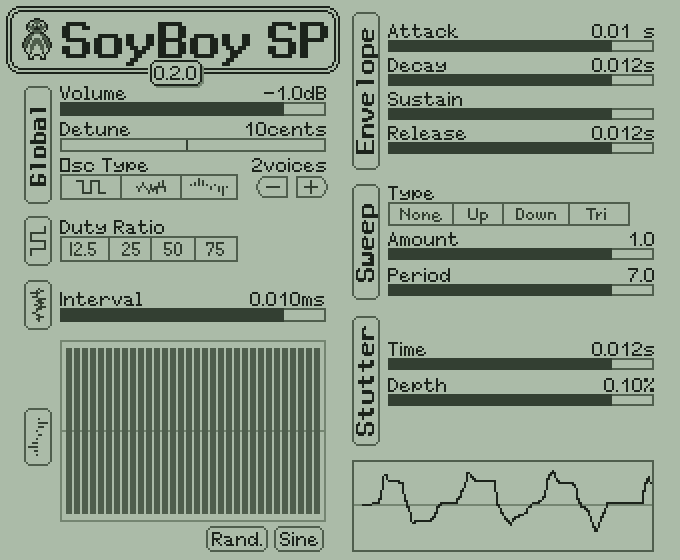
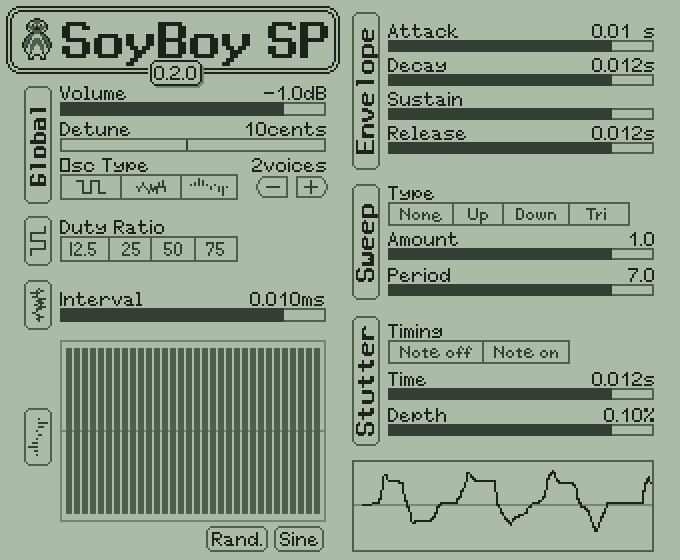
Add GUI parts to control the parameter "Stutter timing"

Changed region(s): [[0.5559, 0.5768, 0.9574, 0.7893]]

diff --git a/src/gui/ui.rs b/src/gui/ui.rs
@@ -41,6 +41,7 @@ pub struct UI {
     pub param_osc_type: ParameterSelector,
     pub param_osc_sq_duty: ParameterSelector,
     pub param_sweep_type: ParameterSelector,
+    pub param_stutter_timing: ParameterSelector,
     pub param_voices: ParameterVoices,
     pub param_wavetable: WaveTableEditor,
 }
@@ -334,6 +335,23 @@ impl UI {
                 186.0,
                 event_handler.clone(),
             ),
+            param_stutter_timing: ParameterSelector::new(
+                SelectorValue {
+                    param: SoyBoyParameter::StutterWhen,
+                    param_def: param_defs
+                        .get(&SoyBoyParameter::StutterWhen)
+                        .unwrap()
+                        .clone(),
+                    value: *param_values
+                        .get(&(SoyBoyParameter::StutterWhen as u32))
+                        .unwrap(),
+                },
+                Image::new(egui_ctx, &images.select_stutter_timing),
+                Image::new(egui_ctx, &images.param_atlas),
+                388.0,
+                324.0,
+                event_handler.clone(),
+            ),
             param_voices: ParameterVoices::new(
                 *param_values
                     .get(&(SoyBoyParameter::NumVoices as u32))
@@ -368,7 +386,7 @@ impl UI {
             SoyBoyParameter::SweepPeriod => self.param_period.set(value),
             SoyBoyParameter::StutterTime => self.param_time.set(value),
             SoyBoyParameter::StutterDepth => self.param_depth.set(value),
-            SoyBoyParameter::StutterWhen => (), //self.param_when.set(value),
+            SoyBoyParameter::StutterWhen => self.param_stutter_timing.set(value),
             SoyBoyParameter::EgAttack => self.param_attack.set(value),
             SoyBoyParameter::EgDecay => self.param_decay.set(value),
             SoyBoyParameter::EgSustain => self.param_sustain.set(value),

diff --git a/src/gui/images.rs b/src/gui/images.rs
@@ -21,6 +21,8 @@ const IMG_PARAM_ATLAS: &[u8] = include_bytes!("../../resources/paramname.png");
 const IMG_SELECT_OSC_TYPE: &[u8] = include_bytes!("../../resources/select-osc-type.png");
 const IMG_SELECT_OSC_SQ_DUTY: &[u8] = include_bytes!("../../resources/select-osc-square-duty.png");
 const IMG_SELECT_SWEEP_TYPE: &[u8] = include_bytes!("../../resources/select-sweep-type.png");
+const IMG_SELECT_STUTTER_TIMING: &[u8] =
+    include_bytes!("../../resources/select-stutter-timing.png");
 const IMG_WAVETABLE_BORDER: &[u8] = include_bytes!("../../resources/wavetable-border.png");
 const IMG_OSCILLOSCOPE_BORDER: &[u8] = include_bytes!("../../resources/oscilloscope-border.png");
 
@@ -58,6 +60,7 @@ pub struct Images {
     pub select_osc_type: RetainedImage,
     pub select_osc_sq_duty: RetainedImage,
     pub select_sweep_type: RetainedImage,
+    pub select_stutter_timing: RetainedImage,
     pub wavetable_border: RetainedImage,
     pub oscilloscope_border: RetainedImage,
     pub value_atlas: RetainedImage,
@@ -126,6 +129,11 @@ impl Images {
             select_sweep_type: RetainedImage::from_image_bytes(
                 "soyboy:select:sweep-type",
                 IMG_SELECT_SWEEP_TYPE,
+            )
+            .unwrap(),
+            select_stutter_timing: RetainedImage::from_image_bytes(
+                "soyboy:select:stutter-timing",
+                IMG_SELECT_STUTTER_TIMING,
             )
             .unwrap(),
             wavetable_border: RetainedImage::from_image_bytes(

diff --git a/src/gui/types.rs b/src/gui/types.rs
@@ -157,6 +157,7 @@ impl SoyBoyParameter {
             SoyBoyParameter::SweepPeriod => Some(Region::new(0.0, 176.0, 62.0, 14.0)),
             SoyBoyParameter::StutterTime => Some(Region::new(0.0, 192.0, 38.0, 14.0)),
             SoyBoyParameter::StutterDepth => Some(Region::new(0.0, 208.0, 58.0, 14.0)),
+            SoyBoyParameter::StutterWhen => Some(Region::new(0.0, 224.0, 53.0, 14.0)),
             _ => None,
         }
     }
@@ -181,6 +182,10 @@ impl SoyBoyParameter {
                 Region::new(66.0, 2.0, 48.0, 20.0),
                 Region::new(116.0, 2.0, 64.0, 20.0),
                 Region::new(182.0, 2.0, 58.0, 20.0),
+            ]),
+            SoyBoyParameter::StutterWhen => Some(vec![
+                Region::new(2.0, 2.0, 92.0, 20.0),
+                Region::new(96.0, 2.0, 84.0, 20.0),
             ]),
             _ => None,
         }

diff --git a/src/gui/gui_thread.rs b/src/gui/gui_thread.rs
@@ -230,6 +230,7 @@ impl GUIThread {
                     let _ = self.ui.param_osc_type.show(ui);
                     let _ = self.ui.param_osc_sq_duty.show(ui);
                     let _ = self.ui.param_sweep_type.show(ui);
+                    let _ = self.ui.param_stutter_timing.show(ui);
 
                     let _ = self.ui.param_voices.show(ui);
 
